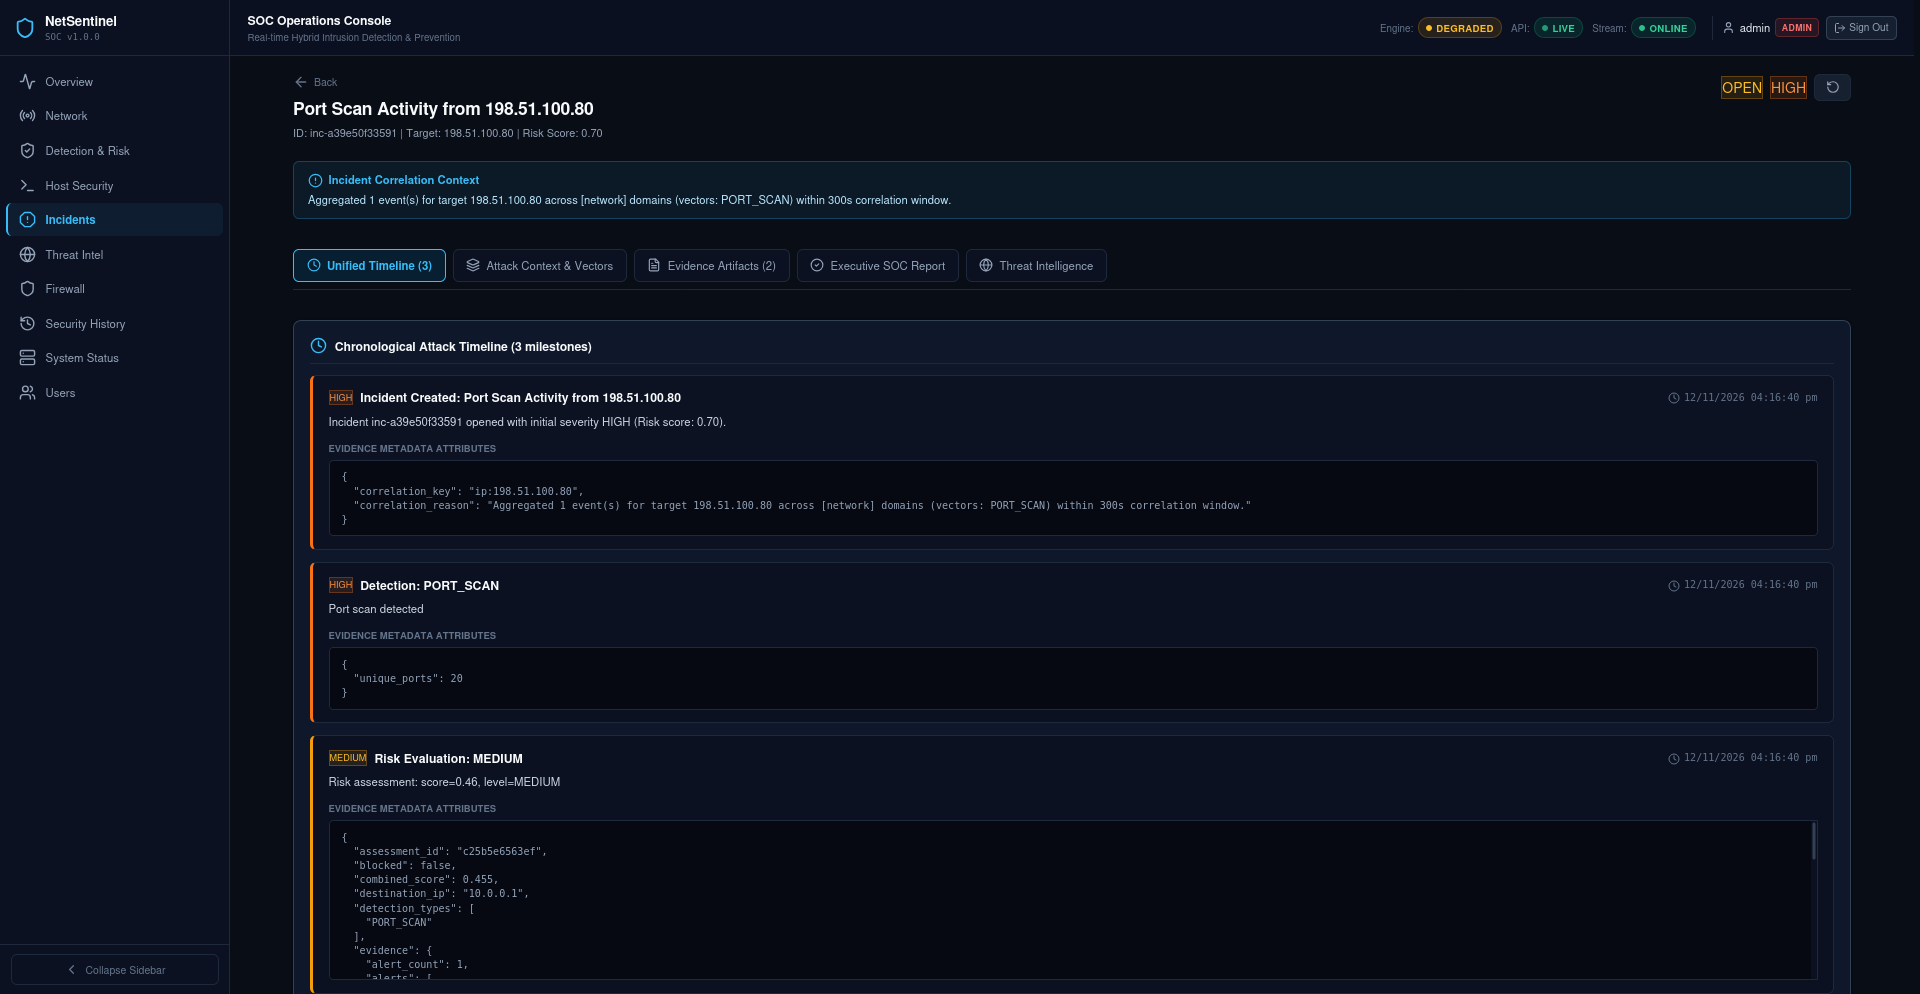
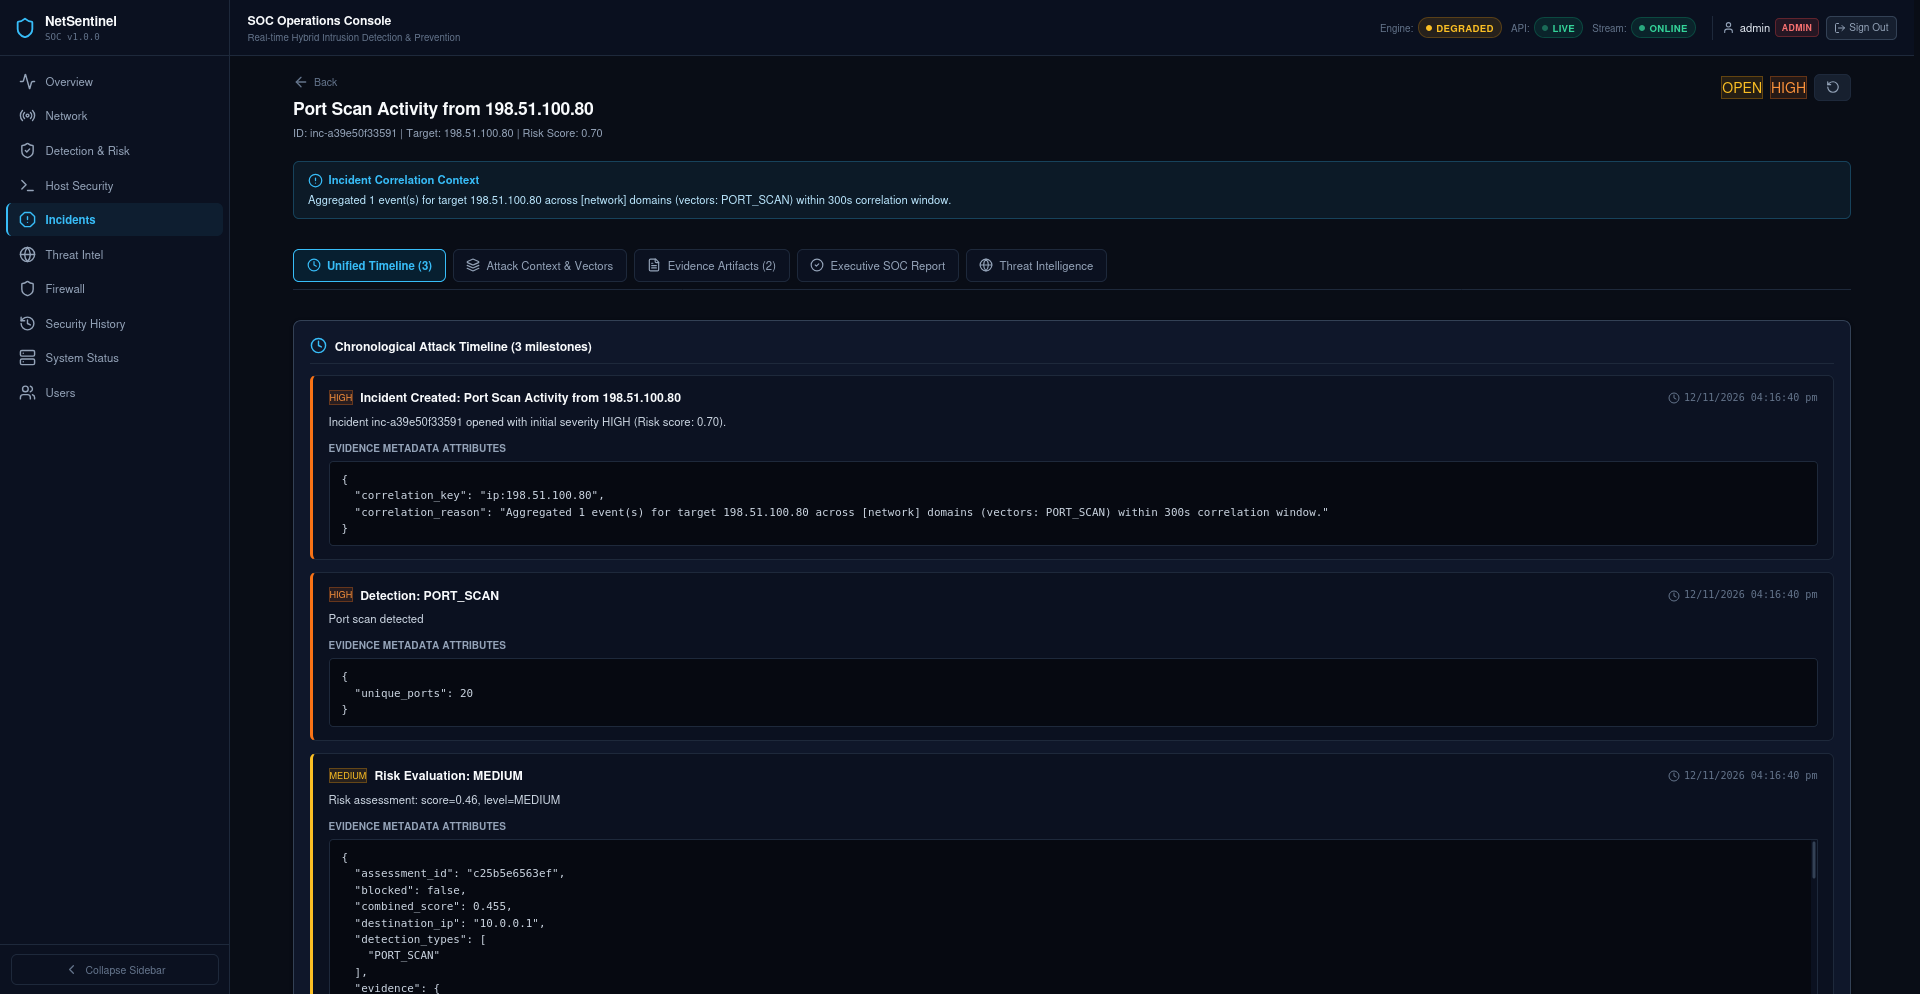
fix(ui): align investigate buttons, medium timeline border, evidence text, and permission-denied messaging

Changed region(s): [[0.1562, 0.5614, 0.9688, 1.0], [0.1562, 0.4366, 0.6562, 0.5302], [0.875, 0.5614, 0.9375, 0.5926]]

diff --git a/frontend/src/pages/IncidentDetail.jsx b/frontend/src/pages/IncidentDetail.jsx
@@ -300,58 +300,64 @@ ${(incident?.evidence || []).map(e => `- [${formatFullTime(e.timestamp)}] **${e.
               {timeline.length === 0 ? (
                 <EmptyState message="No timeline events registered for this incident." icon={Clock} />
               ) : (
-                timeline.map((item, idx) => (
-                  <div
-                    key={idx}
-                    className={`timeline-item ${item.type === 'MILESTONE' ? 'milestone' : item.type === 'FIREWALL_ACTION' ? 'firewall' : ''}`}
-                    style={
-                      item.severity === 'CRITICAL' ? { borderLeftColor: 'var(--status-red)' } :
-                      item.severity === 'HIGH' ? { borderLeftColor: 'var(--status-orange)' } :
-                      item.severity === 'MEDIUM' ? { borderLeftColor: 'var(--status-yellow)' } :
-                      item.type === 'FIREWALL_ACTION' ? { borderLeftColor: 'var(--status-red)' } :
-                      item.type === 'MILESTONE' ? { borderLeftColor: 'var(--accent-blue)' } :
-                      { borderLeftColor: 'var(--accent-cyan)' }
-                    }
-                  >
-                    <div className="timeline-top-row">
-                      <div style={{ display: 'flex', alignItems: 'center', gap: '0.5rem', flexWrap: 'wrap' }}>
-                        {item.severity && (
-                          <span className={getRiskBadgeClass(item.severity)} style={{ fontSize: '0.65rem' }}>
-                            {item.severity}
-                          </span>
-                        )}
-                        <span className="timeline-title">{item.title}</span>
-                      </div>
-                      <span className="timeline-time">
-                        <Clock size={12} style={{ marginRight: '4px', verticalAlign: 'middle', color: '#64748b' }} />
-                        {formatFullTime(item.timestamp)}
-                      </span>
-                    </div>
-                    <div className="timeline-desc">{item.description}</div>
-                    {item.metadata?.change_type ? (
-                      <div className="fim-timeline-evidence-box">
-                        <div style={{ color: '#38bdf8', fontFamily: 'monospace', fontSize: '0.75rem' }}>Path: {item.metadata.path}</div>
-                        <div style={{ display: 'flex', gap: '0.5rem', alignItems: 'center', marginTop: '0.3rem', flexWrap: 'wrap' }}>
-                          <span className="badge badge-warning" style={{ fontSize: '0.65rem' }}>{item.metadata.change_type}</span>
-                          {item.metadata.previous_sha256 && (
-                            <span style={{ fontSize: '0.68rem', color: '#94a3b8' }}>
-                              Hash: <code>{item.metadata.previous_sha256.substring(0, 10)}...</code> &rarr; <code>{(item.metadata.current_sha256 || 'None').substring(0, 10)}...</code>
+                timeline.map((item, idx) => {
+                  const sev = (item.severity || '').toUpperCase();
+                  const borderLeftColor =
+                    sev === 'CRITICAL' ? '#ef4444' :
+                    sev === 'HIGH' ? '#f97316' :
+                    sev === 'MEDIUM' ? '#fbbf24' :
+                    sev === 'LOW' ? '#38bdf8' :
+                    sev === 'INFO' ? '#94a3b8' :
+                    item.type === 'FIREWALL_ACTION' ? '#ef4444' :
+                    item.type === 'MILESTONE' ? 'var(--accent-blue)' :
+                    'var(--accent-cyan)';
+
+                  return (
+                    <div
+                      key={idx}
+                      className={`timeline-item ${item.type === 'MILESTONE' ? 'milestone' : item.type === 'FIREWALL_ACTION' ? 'firewall' : ''}`}
+                      style={{ borderLeftColor }}
+                    >
+                      <div className="timeline-top-row">
+                        <div style={{ display: 'flex', alignItems: 'center', gap: '0.5rem', flexWrap: 'wrap' }}>
+                          {item.severity && (
+                            <span className={getRiskBadgeClass(item.severity)} style={{ fontSize: '0.65rem' }}>
+                              {item.severity}
                             </span>
                           )}
+                          <span className="timeline-title">{item.title}</span>
                         </div>
+                        <span className="timeline-time">
+                          <Clock size={12} style={{ marginRight: '4px', verticalAlign: 'middle', color: '#64748b' }} />
+                          {formatFullTime(item.timestamp)}
+                        </span>
                       </div>
-                    ) : item.metadata && Object.keys(item.metadata).length > 0 && (
-                      <div style={{ marginTop: '0.35rem' }}>
-                        <div style={{ fontSize: '0.68rem', fontWeight: 600, color: '#64748b', textTransform: 'uppercase', marginBottom: '0.2rem' }}>
-                          Evidence Metadata Attributes
+                      <div className="timeline-desc">{item.description}</div>
+                      {item.metadata?.change_type ? (
+                        <div className="fim-timeline-evidence-box">
+                          <div style={{ color: '#38bdf8', fontFamily: 'monospace', fontSize: '0.78rem' }}>Path: {item.metadata.path}</div>
+                          <div style={{ display: 'flex', gap: '0.5rem', alignItems: 'center', marginTop: '0.3rem', flexWrap: 'wrap' }}>
+                            <span className="badge badge-warning" style={{ fontSize: '0.68rem' }}>{item.metadata.change_type}</span>
+                            {item.metadata.previous_sha256 && (
+                              <span style={{ fontSize: '0.72rem', color: '#cbd5e1' }}>
+                                Hash: <code>{item.metadata.previous_sha256.substring(0, 10)}...</code> &rarr; <code>{(item.metadata.current_sha256 || 'None').substring(0, 10)}...</code>
+                              </span>
+                            )}
+                          </div>
                         </div>
-                        <pre className="evidence-meta-pre">
-                          {JSON.stringify(item.metadata, null, 2)}
-                        </pre>
-                      </div>
-                    )}
-                  </div>
-                ))
+                      ) : item.metadata && Object.keys(item.metadata).length > 0 && (
+                        <div style={{ marginTop: '0.35rem' }}>
+                          <div style={{ fontSize: '0.72rem', fontWeight: 600, color: '#94a3b8', textTransform: 'uppercase', marginBottom: '0.25rem' }}>
+                            Evidence Metadata Attributes
+                          </div>
+                          <pre className="evidence-meta-pre">
+                            {JSON.stringify(item.metadata, null, 2)}
+                          </pre>
+                        </div>
+                      )}
+                    </div>
+                  );
+                })
               )}
             </div>
           </DashboardCard>

diff --git a/frontend/src/pages/Network.jsx b/frontend/src/pages/Network.jsx
@@ -265,13 +265,15 @@ export function Network() {
                 right: '8px',
                 zIndex: 10,
                 fontSize: '0.6875rem',
-                color: 'var(--text-muted)',
-                background: 'rgba(15, 23, 42, 0.85)',
+                color: isPermissionDenied ? '#fca5a5' : 'var(--text-muted)',
+                background: isPermissionDenied ? 'rgba(239, 68, 68, 0.15)' : 'rgba(15, 23, 42, 0.85)',
                 padding: '2px 8px',
                 borderRadius: '4px',
-                border: '1px solid #1e293b',
+                border: isPermissionDenied ? '1px solid rgba(239, 68, 68, 0.3)' : '1px solid #1e293b',
               }}>
-                0 packets captured — awaiting network activity or elevated privileges
+                {isPermissionDenied
+                  ? 'Packet capture unavailable: CAP_NET_RAW / elevated privileges required'
+                  : '0 packets captured — awaiting network activity'}
               </div>
             )}
             <ResponsiveContainer width="100%" height="100%">
@@ -326,13 +328,15 @@ export function Network() {
                 right: '8px',
                 zIndex: 10,
                 fontSize: '0.6875rem',
-                color: 'var(--text-muted)',
-                background: 'rgba(15, 23, 42, 0.85)',
+                color: isPermissionDenied ? '#fca5a5' : 'var(--text-muted)',
+                background: isPermissionDenied ? 'rgba(239, 68, 68, 0.15)' : 'rgba(15, 23, 42, 0.85)',
                 padding: '2px 8px',
                 borderRadius: '4px',
-                border: '1px solid #1e293b',
+                border: isPermissionDenied ? '1px solid rgba(239, 68, 68, 0.3)' : '1px solid #1e293b',
               }}>
-                0 frames captured — awaiting traffic
+                {isPermissionDenied
+                  ? 'Packet capture unavailable until required privileges are granted'
+                  : '0 frames captured — awaiting traffic'}
               </div>
             )}
             <ResponsiveContainer width="100%" height="100%">

diff --git a/frontend/src/App.css b/frontend/src/App.css
@@ -1417,14 +1417,14 @@ select option {
   border-radius: var(--radius-sm);
   padding: 0.65rem 0.85rem;
   font-family: ui-monospace, SFMono-Regular, Menlo, Monaco, Consolas, monospace;
-  font-size: 0.72rem;
-  color: #94a3b8;
+  font-size: 0.78rem;
+  color: #cbd5e1;
   max-height: 160px;
   overflow-y: auto;
   white-space: pre-wrap;
   word-break: break-all;
   margin-top: 0.35rem;
-  line-height: 1.4;
+  line-height: 1.5;
 }
 
 .fim-timeline-evidence-box {
@@ -1470,6 +1470,28 @@ select option {
   align-items: center;
   gap: 0.65rem;
   flex-wrap: wrap;
+}
+
+.btn-investigate {
+  display: inline-flex;
+  align-items: center;
+  gap: 0.35rem;
+  background-color: rgba(56, 189, 248, 0.08);
+  border: 1px solid rgba(56, 189, 248, 0.25);
+  border-radius: var(--radius-md);
+  color: #38bdf8;
+  padding: 0.2rem 0.5rem;
+  font-size: 0.68rem;
+  font-weight: 600;
+  cursor: pointer;
+  transition: all 0.15s ease;
+  white-space: nowrap;
+}
+
+.btn-investigate:hover {
+  background-color: rgba(56, 189, 248, 0.18);
+  border-color: var(--accent-cyan);
+  color: #7dd3fc;
 }
 
 .btn-action-ack {

diff --git a/docs/ui-review/README.md b/docs/ui-review/README.md
@@ -96,3 +96,8 @@ All captures represent genuine application states running against the production
    - **Detection & Risk (`/detection`):** Formatted model lifecycle metrics list with clear row borders and label/value separation; neutralized chart hover tooltips during screenshot capture for clean graph presentation.
    - **System Status (`/system`):** Formatted Runtime Environment & Parameters section with clean cards, distinct label/value rows, and readable path strings.
    - **Network Monitoring (`/network`):** Clarified 0-packet state banner (`"0 packets captured — awaiting network activity or elevated privileges"`) while keeping both live charts active with genuine zero-count telemetry.
+7. **Final UI Review Precision Polish:**
+   - **Incidents List (`/incidents`):** Styled `.btn-investigate` controls with dark obsidian backgrounds, subtle sky-blue borders, and compact proportions to match adjacent `.btn-action-ack` controls.
+   - **Incident Detail Timeline Colors (`/incidents/:id`):** Aligned MEDIUM event timeline card left-border color to `#fbbf24` (exact amber-gold of `.badge-medium`), eliminating visual confusion with HIGH events (`#f97316`).
+   - **Evidence Text Readability:** Boosted contrast and sizing for evidence metadata (`0.78rem`, `#cbd5e1`, `line-height: 1.5`) while maintaining compact panel bounding and native scrollability.
+   - **Network Status Clarity (`/network`):** Replaced generic "awaiting traffic" message when packet capture status is `PERMISSION_DENIED` with explicit notification that capture is unavailable until elevated privileges are granted.
